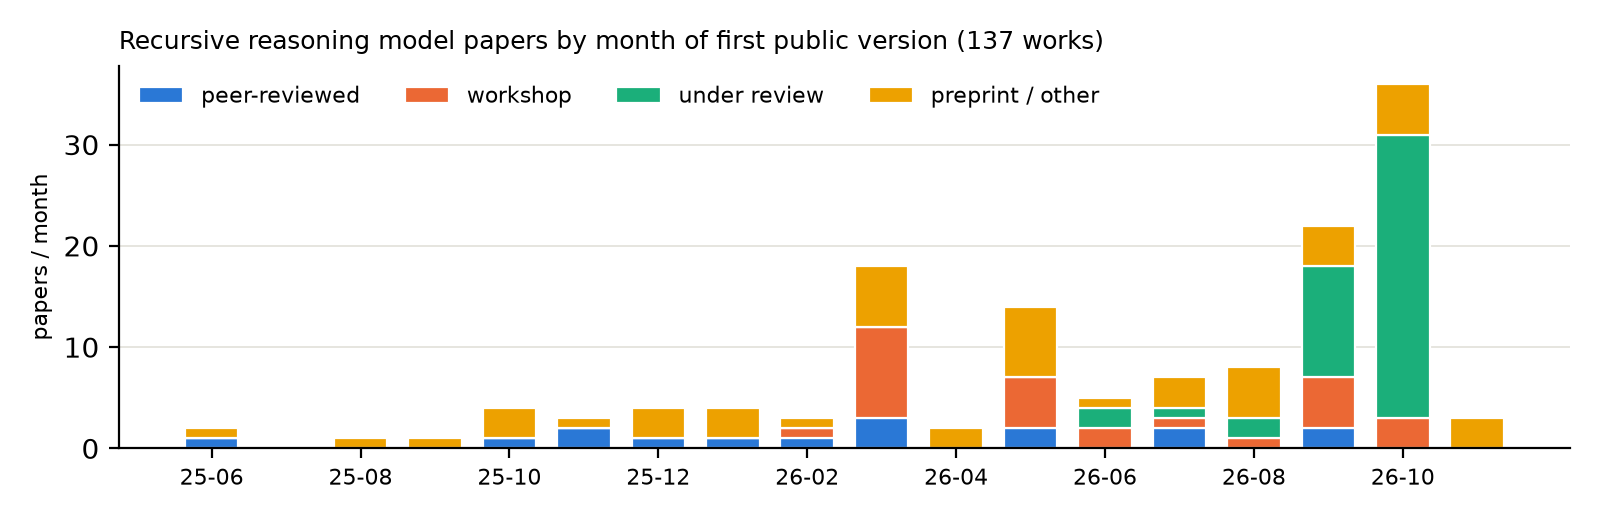
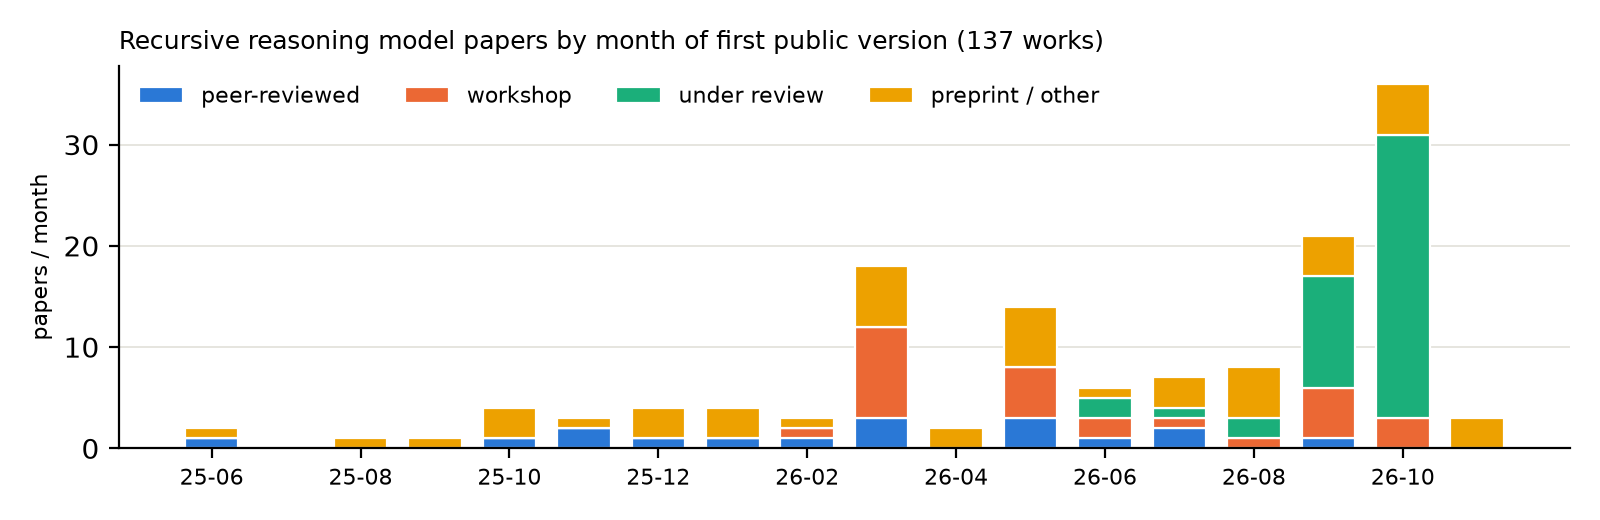
Narrow TL;DR claims to what the papers report and fix dates, venues and links
Sourced through data/corrections.yaml (AI-assisted source checks, 2026-11-16):
- TL;DRs narrowed to the sources: LDT is empirically sound only on the tested Sudoku sets (its
  Maze-Hard failures are wrong paths, p. 9); SE-RRM fully solves 4x4 grids but none of the
  16x16/25x25 ones (pp. 7-8); the edge-compression study's INT4 budget is a weights-only
  analysis; HRM-Text's comparison is the authors' (40B unique tokens); the memory-token finding
  is specific to a single-block UT (p. 14); the compact-solver scores keep the abstract's
  99.48%/99.62% and parameter counts; TRM states 7M (5M MLP variant on Sudoku-Extreme).
- Dates: USRL is June 2026 (CVF proceedings), not the later OpenReview posting; RELAGRAM's
  workshop record went public on 2026-10-04, not 2026-10-03.
- Venues: ELT is ECCV 2026 (Crossref), AIR is a NeurIPS 2026 poster (official site), and the
  harness-evolution entry now links the LLA @ COLM 2026 record its workshop status rests on, with
  the same-title ICLR 2027 submission as a version.

diff --git a/README.md b/README.md
@@ -7,7 +7,7 @@ recursive reasoning models: small, weight-tied networks that think by iterating.
 
 <img src="assets/field_timeline.png" alt="Monthly count of recursive-reasoning-model papers by type" width="92%"/>
 
-**507 papers** · 16 repositories · 95 annotated results (90 in RRM scope) · 111 peer-reviewed · 60 workshop · 139 under review · 193 preprint · 1 report · 3 blog · updated 2026-11-16
+**507 papers** · 16 repositories · 95 annotated results (90 in RRM scope) · 112 peer-reviewed · 60 workshop · 139 under review · 192 preprint · 1 report · 3 blog · updated 2026-11-16
 
 </div>
 
@@ -56,12 +56,12 @@ recursive reasoning models: small, weight-tied networks that think by iterating.
 1. **HRM** — Hierarchical Reasoning Model (2025-06). Introduces HRM: coupled slow high-level and fast low-level recurrent modules reasoning in one forward pass without CoT, 27M parameters, about 1000 training examples. [arXiv](https://arxiv.org/abs/2506.21734) · [OpenReview](https://openreview.net/forum?id=HFbtdgk5Hc) · [code](https://github.com/sapientinc/HRM)
 2. **ARC Prize HRM analysis** — The Hidden Drivers of HRM's Performance on ARC-AGI (2025-08). Verification and ablation of HRM on ARC-AGI: semi-private score below the public one, a plain transformer within a few points, gains concentrated in the outer refinement loop, and a transductive puzzle-ID setup. [paper](https://arcprize.org/blog/hrm-analysis) · [code](https://github.com/arcprize/hierarchical-reasoning-model-analysis)
 3. **Hierarchical Reasoning Models: Perspectives and Misconceptions** (2025-09). Reviews HRM-class models, examines key design choices, tests alternative variants and clarifies misconceptions; v2 removed erroneous v1 results and changed conclusions. [arXiv](https://arxiv.org/abs/2510.00355) · [OpenReview](https://openreview.net/forum?id=Dty1TyXrDI) · [ICLR 2026 submission, earlier title (withdrawn)](https://openreview.net/forum?id=cL840F9yoG)
-4. **TRM** — Less is More: Recursive Reasoning with Tiny Networks (2025-10). Proposes Tiny Recursive Model, a simpler recursive reasoning approach using a single 2-layer, 7M-parameter network that generalizes better than HRM on Sudoku, Maze, and ARC-AGI. [arXiv](https://arxiv.org/abs/2510.04871)
+4. **TRM** — Less is More: Recursive Reasoning with Tiny Networks (2025-10). Proposes the Tiny Recursive Model: a single 2-layer network (7M parameters; 5M MLP variant on Sudoku-Extreme) recursively updates a latent and an answer, generalizing better than HRM on Sudoku, Maze, and ARC-AGI. [arXiv](https://arxiv.org/abs/2510.04871)
 5. **Tiny Recursive Models on ARC-AGI-1: Inductive Biases, Identity Conditioning, and Test-Time Compute** (2025-12). Audits the ARC Prize TRM checkpoint on ARC-AGI-1: voting/augmentation drive much accuracy, puzzle-ID dependence is total, effective recursion is shallow; compares with QLoRA Llama-3-8B. [arXiv](https://arxiv.org/abs/2512.11847) · [code](https://github.com/AntonioRoye/TinyRecursiveModels)
 6. **URM** — Universal Reasoning Model (2025-12). Analyzes Universal Transformer variants, attributing ARC-AGI gains to recurrent inductive bias and nonlinearity, and proposes URM with short convolution and truncated backpropagation. [arXiv](https://arxiv.org/abs/2512.14693) · [OpenReview](https://openreview.net/forum?id=cUUG3aZR5g) · [code](https://github.com/UbiquantAI/URM)
 7. **Augmented HRM** — Are Your Reasoning Models Reasoning or Guessing? A Mechanistic Analysis of Hierarchical Reasoning Models (2026-01). Mechanistic HRM study: fails trivial puzzles via fixed-point violation, shows grokking-like steps and multiple fixed points; Augmented HRM scales guesses via augmentation, perturbation, bootstrapping. [arXiv](https://arxiv.org/abs/2601.10679) · [code](https://github.com/renrua52/hrm-mechanistic-analysis)
 8. **GRAM** — Generative Recursive Reasoning (2026-03). GRAM turns recursive latent reasoning into stochastic multi-trajectory computation, a latent-variable model trained by amortized variational inference supporting parallel sampling and unconditional generation. [arXiv](https://arxiv.org/abs/2605.19376) · [ICLR 2026 Workshop (RSI) version](https://openreview.net/forum?id=Vxu6kcIjwV)
-9. **LDT** — Lattice Deduction Transformers (2026-05). Lattice Deduction Transformer: recurrent transformer projecting its latent state through a lattice between passes, trained on-policy with abstract-interpretation supervision; answers correctly or abstains. [arXiv](https://arxiv.org/abs/2605.08605) · [OpenReview](https://openreview.net/forum?id=AGwDx82Vq3)
+9. **LDT** — Lattice Deduction Transformers (2026-05). Lattice Deduction Transformer: recurrent transformer projecting its latent state through a lattice between passes, trained on-policy with abstract-interpretation supervision; empirically sound (correct answer or abstention) on the tested Sudoku sets, while its few Maze-Hard failures are wrong paths, not abstentions. [arXiv](https://arxiv.org/abs/2605.08605) · [OpenReview](https://openreview.net/forum?id=AGwDx82Vq3)
 10. **PTRM** — Probabilistic Tiny Recursive Model (2026-05). Introduces Probabilistic TRM, injecting Gaussian noise at each deep recursion step to explore parallel trajectories and selecting via TRM's existing Q head, without retraining or augmentation. [arXiv](https://arxiv.org/abs/2605.19943)
 11. **EqR** — Equilibrium Reasoners: Learning Attractors Enables Scalable Reasoning (2026-05). Equilibrium Reasoners learn task-conditioned attractors whose stable fixed points are solutions, scaling test-time compute by depth (more iterations) and breadth (aggregating stochastic trajectories) without verifiers. [arXiv](https://arxiv.org/abs/2605.21488) · [OpenReview](https://openreview.net/forum?id=lh95PnOlpM) · [code](https://github.com/locuslab/EqR)
 12. **FPRM** — Fixed-Point Reasoners: Stable and Adaptive Deep Looped Transformers (2026-05). FPRM, a Transformer-based Fixed-Point Reasoning Model, fixes looped-depth signal propagation with pre-norm and residual scaling and uses fixed-point convergence as end-to-end halting. [arXiv](https://arxiv.org/abs/2606.18206) · [OpenReview](https://openreview.net/forum?id=8HeM93bcCq) · [ICML 2026 Workshop (FoGen) version](https://openreview.net/forum?id=EpkmPWS4Tm)
@@ -72,9 +72,9 @@ recursive reasoning models: small, weight-tied networks that think by iterating.
 | Date | Paper | Venue / status | Links | TL;DR |
 |:--|:--|:--|:--|:--|
 | 2026-08 | **Mimir** — Mimir: A Sub-2B Hierarchical Reasoning Model Trained on Permissible Data Punches Above Its Weight Class | ICLR 2027 (under review) | [arXiv](https://arxiv.org/abs/2608.13517) · [OpenReview](https://openreview.net/forum?id=YGnpHMuhJI) · [code](https://github.com/schneiderkamplab/HRM-Text) | Releases Mimir v1, a 1B-parameter HRM-architecture language model trained from scratch on permissible data, outperforming HRM-Text 1B and setting a Danish state of the art. |
-| 2026-05 | **HRM-Text** — HRM-Text: Efficient Pretraining Beyond Scaling | arXiv | [arXiv](https://arxiv.org/abs/2605.20613) · [code](https://github.com/sapientinc/HRM-Text) | HRM-Text replaces Transformers with HRM for language-model pretraining, adding MagicNorm and warmup deep credit assignment and training on instruction-response pairs; 1B model rivals 2-7B models. |
+| 2026-05 | **HRM-Text** — HRM-Text: Efficient Pretraining Beyond Scaling | arXiv | [arXiv](https://arxiv.org/abs/2605.20613) · [code](https://github.com/sapientinc/HRM-Text) | HRM-Text replaces Transformers with HRM for language-model pretraining, adding MagicNorm and warmup deep credit assignment and training only on instruction-response pairs; reports that a 1B model trained from scratch on 40B unique tokens performs competitively with 2-7B open models. |
 | 2025-12 | **URM** — Universal Reasoning Model ⭐ | arXiv | [arXiv](https://arxiv.org/abs/2512.14693) · [OpenReview](https://openreview.net/forum?id=cUUG3aZR5g) · [code](https://github.com/UbiquantAI/URM) | Analyzes Universal Transformer variants, attributing ARC-AGI gains to recurrent inductive bias and nonlinearity, and proposes URM with short convolution and truncated backpropagation. |
-| 2025-10 | **TRM** — Less is More: Recursive Reasoning with Tiny Networks ⭐ | arXiv | [arXiv](https://arxiv.org/abs/2510.04871) | Proposes Tiny Recursive Model, a simpler recursive reasoning approach using a single 2-layer, 7M-parameter network that generalizes better than HRM on Sudoku, Maze, and ARC-AGI. |
+| 2025-10 | **TRM** — Less is More: Recursive Reasoning with Tiny Networks ⭐ | arXiv | [arXiv](https://arxiv.org/abs/2510.04871) | Proposes the Tiny Recursive Model: a single 2-layer network (7M parameters; 5M MLP variant on Sudoku-Extreme) recursively updates a latent and an answer, generalizing better than HRM on Sudoku, Maze, and ARC-AGI. |
 | 2025-06 | **HRM** — Hierarchical Reasoning Model ⭐ | arXiv | [arXiv](https://arxiv.org/abs/2506.21734) · [OpenReview](https://openreview.net/forum?id=HFbtdgk5Hc) · [code](https://github.com/sapientinc/HRM) | Introduces HRM: coupled slow high-level and fast low-level recurrent modules reasoning in one forward pass without CoT, 27M parameters, about 1000 training examples. |
 
 ## 🏗 Operator and state design
@@ -92,7 +92,7 @@ recursive reasoning models: small, weight-tied networks that think by iterating.
 | 2026-10 | **NRR** — Negotiated Recursive Reasoning | ICLR 2027 (under review) | [OpenReview](https://openreview.net/forum?id=ICrQrzUlub) | Proposes Negotiated Recursive Reasoning, where shared local recursive reasoners refine per-view proposals and states while a negotiation step reduces overlap disagreement across rounds. |
 | 2026-10 | **QRR** — Looped Reasoning Finishes Earlier Than You Think | ICLR 2027 (under review) | [arXiv](https://arxiv.org/abs/2610.18174) · [OpenReview](https://openreview.net/forum?id=F2Gf9kssdG) | Shows slowly decaying oscillatory latent modes bottleneck convergence in looped reasoning, and proposes QRR, a gauge-equivariant recurrent reasoner whose phase-rotation symmetry decouples them, converging faster. |
 | 2026-10 | **G-Loop** — Loop Attention, not the Block | ICLR 2027 (under review) | [OpenReview](https://openreview.net/forum?id=Laa8I1vVBg) | Introduces Gated Looped Attention, moving recurrence inside self-attention with gated value remixing, approaching or beating TRM-Att puzzle accuracy at far lower FLOPs and improving DeBERTa on GLUE. |
-| 2026-10 | Learned Correction Dynamics in Recursive Reasoning Models | ICLR 2027 (under review) | [OpenReview](https://openreview.net/forum?id=KGYYrHn7TX) | Trajectory measurements and interventions on Sudoku-Extreme RRMs reveal learned correction dynamics; compact attention solvers reach about 99.5% with under 2M parameters; ARC candidate-pool limits. |
+| 2026-10 | Learned Correction Dynamics in Recursive Reasoning Models | ICLR 2027 (under review) | [OpenReview](https://openreview.net/forum?id=KGYYrHn7TX) | Trajectory measurements and interventions on Sudoku-Extreme RRMs reveal learned correction dynamics; compact attention solvers reach 99.48% (0.62M parameters) and 99.62% (1.06M and 1.97M) with one 64-iteration trajectory; on ARC, tested candidate pools lack correct answers for most queries. |
 | 2026-10 | **LRFeed** — LRFeed: Latent Residual Feedback for Efficient Reasoning in Looped Transformers | ICLR 2027 (under review) | [OpenReview](https://openreview.net/forum?id=niEvgSmsch) | LRFeed feeds back latent-state evolution to guide subsequent computation in a single-state TRM variant, strengthening long-horizon reasoning beyond the training horizon with less compute. |
 | 2026-10 | **L^nH** — Beyond the Loop: From Latent Dynamics to Performant Recurrent Models | ICLR 2027 (under review) | [OpenReview](https://openreview.net/forum?id=d6MpL4YyvG) | Analyzes HRM-Text dynamics (L-module converges to a narrow region; H applies a distinct map), proposing the simpler one-stream L^nH family and a new training recipe. |
 | 2026-09 | **BiRRM** — BiRRM: Bidirectional Token Mixing for Recurrent Reasoning Models | NeurIPS 2026 Workshop (AXIOM) | [OpenReview](https://openreview.net/forum?id=q4FCmBLlE0) | Shows causal linear-time mixers (mLSTM, GDN-2, Mamba-3) fail as RRM token mixers and proposes BiRRM, a weight-tied bidirectional construction restoring strong performance. |
@@ -100,17 +100,17 @@ recursive reasoning models: small, weight-tied networks that think by iterating.
 | 2026-09 | **NCA** — Reasoning with Neural Cellular Automata | ICLR 2027 (under review) | [arXiv](https://arxiv.org/abs/2609.36126) · [OpenReview](https://openreview.net/forum?id=WW3DRigdv3) | Shows neural cellular automata with local, asynchronous recurrent updates solve large mazes, Sudoku, and ARC-AGI-1, generalizing to larger grids and longer rollouts when trained with replay and stochasticity. |
 | 2026-09 | **CHARM** — Structured Sparse Memory for Recurrent Reasoning | arXiv | [arXiv](https://arxiv.org/abs/2609.33270) · [code](https://github.com/water-vapor/charm) | Presents CHARM, a compact hybrid ARC model combining recurrent reasoning with compositional sparse task memory (CoSE), synthetic augmentation data and inference-time aggregation. |
 | 2026-09 | **GFPR** — Reasoning on the Simplex: Geometric Fixed-Point Models | ICLR 2027 (under review) | [arXiv](https://arxiv.org/abs/2609.33540) · [OpenReview](https://openreview.net/forum?id=4lOEWc9Rp0) | GFPR iterates categorical beliefs on a product of simplices so the state is the prediction, guaranteeing a fixed point; a ~7M model is strong on Sudoku-Extreme, Maze-Hard, S5. |
-| 2026-09 | **USRL** — Human-like Abstract Visual Reasoning via Understanding and Solving Reasoning Loop | CVPR 2026 | [OpenReview](https://openreview.net/forum?id=FScvogJslA) | Proposes USRL, a 7M-parameter loop in which an Understanding Module refines rule representations and a Solving Module refines a draft solution, with consistency-based adaptive halting. |
 | 2026-09 | **LRT** — Latent Recurrent Thoughts: Recurrent Refinement of Proposed Latents for Reasoning with Frozen LLMs | arXiv | [arXiv](https://arxiv.org/abs/2609.01117) · [code](https://github.com/czl-david/latent-recurrent-thoughts) | Proposes Latent Recurrent Thoughts: a tiny recurrent reasoner refines proposed continuous latents through bounded residual corrections, which a frozen LLM decodes into answers. |
 | 2026-08 | **BDH-CQ** — BDH-CQ: In-Context Learning with Recurrent Latent Reasoning | arXiv | [arXiv](https://arxiv.org/abs/2608.09888) | BDH-CQ combines in-context learning, where demonstrations update recurrent memory, with iterative latent reasoning, analysed through controlled ARC-like interventions. |
 | 2026-08 | **ReWork** — ReWork: Efficient Iterative Reasoning with Working Memory | COLM 2026 Workshop (Efficient Reasoning) | [OpenReview](https://openreview.net/forum?id=cNK4KZzHH2) | Proposes ReWork, splitting recurrent state into persistent token-aligned sensory memory and refreshed compact working memory, nesting latent recursion within discrete diffusion, with learned halting. |
 | 2026-06 | **Loop-OWM** — Slots, Transitions, Loops: Learning Composable World Models for ARC | UniWorld Workshop @ ECCV2026 | [arXiv](https://arxiv.org/abs/2606.12316) · [OpenReview](https://openreview.net/forum?id=vxkm7Oolhp) · [X-Reason workshop version (oral)](https://openreview.net/forum?id=I3qCWNKJWV) | Loop-OWM learns ARC rules as composable transitions over object-centric slot states, combining color-prototype slots, demonstration-conditioned summaries and a looped transition model, outperforming non-looped and looped baselines on ARC-1 and ARC-2. |
+| 2026-06 | **USRL** — Human-like Abstract Visual Reasoning via Understanding and Solving Reasoning Loop | CVPR 2026 | [paper](https://openaccess.thecvf.com/content/CVPR2026/html/Chen_Human-like_Abstract_Visual_Reasoning_via_Understanding_and_Solving_Reasoning_Loop_CVPR_2026_paper.html) · [OpenReview](https://openreview.net/forum?id=FScvogJslA) | Proposes USRL, a 7M-parameter loop in which an Understanding Module refines rule representations and a Solving Module refines a draft solution, with consistency-based adaptive halting. |
 | 2026-05 | When to Re-Plan: Subgoal Persistence in Hierarchical Latent Reasoning | ICML 2026 Workshop (CompLearn) | [arXiv](https://arxiv.org/abs/2606.03741) · [OpenReview](https://openreview.net/forum?id=7n485sq1xH) | Extends HRM with a feudal manager-worker interface whose high-level module emits persistent subgoals; on ARC and ConceptARC moderate persistence periods (P in 3-6) work best. |
 | 2026-05 | **Attractor Models** — Solve the Loop: Attractor Models for Language and Reasoning | COLM 2026 Workshop (Efficient Reasoning) | [arXiv](https://arxiv.org/abs/2605.12466) · [OpenReview](https://openreview.net/forum?id=wtWZNZUxQO) · [code](https://github.com/jacobfa/Attractor) | Introduces Attractor Models, where an attractor module refines backbone output embeddings by solving for a fixed point with implicit gradients, applied to LM pretraining and tiny-model reasoning. |
-| 2026-05 | **LDT** — Lattice Deduction Transformers ⭐ | arXiv | [arXiv](https://arxiv.org/abs/2605.08605) · [OpenReview](https://openreview.net/forum?id=AGwDx82Vq3) | Lattice Deduction Transformer: recurrent transformer projecting its latent state through a lattice between passes, trained on-policy with abstract-interpretation supervision; answers correctly or abstains. |
+| 2026-05 | **LDT** — Lattice Deduction Transformers ⭐ | arXiv | [arXiv](https://arxiv.org/abs/2605.08605) · [OpenReview](https://openreview.net/forum?id=AGwDx82Vq3) | Lattice Deduction Transformer: recurrent transformer projecting its latent state through a lattice between passes, trained on-policy with abstract-interpretation supervision; empirically sound (correct answer or abstention) on the tested Sudoku sets, while its few Maze-Hard failures are wrong paths, not abstentions. |
 | 2026-03 | **TR-LDM** — Tiny Recursive Language Diffusion Models | ACL ARR 2026 January submission | [OpenReview](https://openreview.net/forum?id=3Eutnnd6Hy) | Proposes TR-LDM, a <=20M-parameter masked diffusion LM with TRM-style latent/answer recursion and optional deep supervision over denoising, with theory and a Sudoku-Extreme/Maze-Hard experimental plan. |
 | 2026-03 | **RIM** — Recursive Inference Machines for Neural Reasoning | arXiv | [arXiv](https://arxiv.org/abs/2603.05234) | Recursive Inference Machines frame neural reasoners with classical inference-engine mechanisms, express TRM as an instance, and add a reweighting component improving ARC-AGI and Sudoku-Extreme, plus tabular classification. |
-| 2026-03 | **SE-RRM** — Symbol-Equivariant Recurrent Reasoning Models | ICML 2026 | [arXiv](https://arxiv.org/abs/2603.02193) · [OpenReview](https://openreview.net/forum?id=Rd1oQZ3s2o) · [code](https://github.com/ml-jku/SE-RRM) | Introduces symbol-equivariant recurrent reasoning models enforcing permutation equivariance architecturally, beating prior RRMs on Sudoku with size extrapolation and needing less augmentation on ARC. |
+| 2026-03 | **SE-RRM** — Symbol-Equivariant Recurrent Reasoning Models | ICML 2026 | [arXiv](https://arxiv.org/abs/2603.02193) · [OpenReview](https://openreview.net/forum?id=Rd1oQZ3s2o) · [code](https://github.com/ml-jku/SE-RRM) | Symbol-equivariant recurrent reasoning models enforce permutation equivariance architecturally: they outperform prior RRMs on 9x9 Sudoku, transfer to 4x4 grids (95.46% fully solved) but fully solve none of the larger 16x16/25x25 grids, and need less augmentation on ARC. |
 | 2026-02 | Tiny Recursive Reasoning with Mamba-2 Attention Hybrid | ICLR 2026 Workshop (LIT) | [arXiv](https://arxiv.org/abs/2602.12078) · [OpenReview](https://openreview.net/forum?id=AEz0zbLuzg) | Replaces TRM's Transformer blocks with Mamba-2 attention hybrids at parameter parity, improving ARC-AGI-1 pass@2 and higher-K candidate coverage with pass@1 parity. |
 | 2025-06 | Neural Cellular Automata for ARC-AGI | ALIFE 2025 | [arXiv](https://arxiv.org/abs/2506.15746) · [ALIFE 2025 paper](https://doi.org/10.1162/isal.a.844) | Gradient-trained neural cellular automata learn an iterative local update rule from each ARC-AGI task's demonstrations and apply it to the test input; examines design modifications and training constraints. |
 
@@ -170,7 +170,7 @@ recursive reasoning models: small, weight-tied networks that think by iterating.
 | 2026-09 | **Looped Actor** — Looped Actor: Depth-Recurrent Reasoning Models for Reinforcement Learning | ICLR 2027 (under review) | [arXiv](https://arxiv.org/abs/2609.37432) · [OpenReview](https://openreview.net/forum?id=LP8lY2E8bR) · [code](https://github.com/camail-official/LoopedActor) | Introduces Looped Actor, a transformer policy refining a latent toward a fixed point with a shared block and state-dependent loop counts, with complexity-theoretic motivation for adaptive compute. |
 | 2026-05 | **FPRM** — Fixed-Point Reasoners: Stable and Adaptive Deep Looped Transformers ⭐ | ICML 2026 Workshop (CompLearn) | [arXiv](https://arxiv.org/abs/2606.18206) · [OpenReview](https://openreview.net/forum?id=8HeM93bcCq) · [ICML 2026 Workshop (FoGen) version](https://openreview.net/forum?id=EpkmPWS4Tm) | FPRM, a Transformer-based Fixed-Point Reasoning Model, fixes looped-depth signal propagation with pre-norm and residual scaling and uses fixed-point convergence as end-to-end halting. |
 | 2026-05 | **EqR** — Equilibrium Reasoners: Learning Attractors Enables Scalable Reasoning ⭐ | ICML 2026 | [arXiv](https://arxiv.org/abs/2605.21488) · [OpenReview](https://openreview.net/forum?id=lh95PnOlpM) · [code](https://github.com/locuslab/EqR) | Equilibrium Reasoners learn task-conditioned attractors whose stable fixed points are solutions, scaling test-time compute by depth (more iterations) and breadth (aggregating stochastic trajectories) without verifiers. |
-| 2026-04 | Universal Transformers Need Memory: Depth-State Trade-offs in Adaptive Recursive Reasoning | arXiv | [arXiv](https://arxiv.org/abs/2604.21999) · [code](https://github.com/che-shr-cat/utm-jax) | Single-block Universal Transformer with ACT on Sudoku-Extreme: memory tokens are necessary and substitute for ponder depth; identifies an ACT router-initialization trap fixed by negative bias. |
+| 2026-04 | Universal Transformers Need Memory: Depth-State Trade-offs in Adaptive Recursive Reasoning | arXiv | [arXiv](https://arxiv.org/abs/2604.21999) · [code](https://github.com/che-shr-cat/utm-jax) | Single-block Universal Transformer with ACT on Sudoku-Extreme: in this minimal setting memory tokens are empirically necessary and trade off against ponder depth (the author notes that TRM and URM compensate differently); identifies an ACT router-initialization trap fixed by a negative halting bias. |
 | 2026-03 | **CMM** — Dynamical Systems Theory Behind a Hierarchical Reasoning Model | arXiv | [arXiv](https://arxiv.org/abs/2603.22871) | Contraction Mapping Model recasts HRM/TRM-style recursion as neural ODEs/SDEs enforcing convergence to stable equilibria with hyperspherical repulsion against collapse; compact models top Sudoku-Extreme. |
 | 2026-03 | Unrolled Policy Iteration for Tiny Recursive Models | ICLR 2026 Workshop (RSI) | [OpenReview](https://openreview.net/forum?id=rIzREKws05) | Formalizes TRM plan editing as an MDP and analyzes approximate policy iteration with truncated internal evaluation, bounding error by contraction modulus and unroll depth; Sudoku experiments. |
 | 2026-02 | **Loop-ViT** — LoopViT: Scaling Visual ARC with Looped Transformers | arXiv | [arXiv](https://arxiv.org/abs/2602.02156) · [code](https://github.com/WenjieShu/LoopViT) | Loop-ViT iterates a weight-tied convolution-attention hybrid block for visual ARC with a parameter-free entropy-based Dynamic Exit; the 18M model reaches 65.8% on ARC-AGI-1. |
@@ -190,11 +190,11 @@ recursive reasoning models: small, weight-tied networks that think by iterating.
 | 2026-09 | Pretraining and Test-Time Training Budgets Matter for ARC: A Controlled Study of VARC and TRM | BNAIC/BeNeLearn 2026 | [arXiv](https://arxiv.org/abs/2610.13660) · [OpenReview](https://openreview.net/forum?id=JVmYVft0UP) · [code](https://github.com/AdrienDeliege/arc-training-budgets) | Controlled study crossing five pretraining and four test-time-training budgets for VARC and TRM on ARC-AGI-1 under a common inductive protocol. |
 | 2026-09 | Competence without Performance: Representation Without Control on ARC-AGI-3 | NeurIPS 2026 Workshop (PhysUnderstand) | [OpenReview](https://openreview.net/forum?id=aCUDp8kUVi) | Puts a 7M TRM and DreamerV3 through a shared ARC-AGI-3 substrate; both collapse, and diagnosis shows models represent games but reward discovery and control fail. |
 | 2026-09 | When Recursive Models Finish Computing | ICLR 2027 (under review) | [arXiv](https://arxiv.org/abs/2609.26487) · [OpenReview](https://openreview.net/forum?id=irVKjZ7a6I) | Studies completion dynamics of attention and MLP TRMs on 1,000 hard Sudoku: extended recurrence solves many nominal failures; completed states show trajectory-conditioned anisotropic stability. |
-| 2026-06 | What Survives When You Compress a Recursive Reasoner for the Edge? | arXiv | [arXiv](https://arxiv.org/abs/2606.26488) | Studies compressing few-million-parameter recursive reasoning models for edge on three puzzle tasks: pruning, distillation and linear attention destroy puzzle-exact accuracy; calibrated INT4 recovers it. |
+| 2026-06 | What Survives When You Compress a Recursive Reasoner for the Edge? | arXiv | [arXiv](https://arxiv.org/abs/2606.26488) | Compresses few-million-parameter recursive reasoners for edge budgets on three puzzle tasks: in the tested settings pruning, distillation and linear attention drive puzzle-exact accuracy to zero while cell accuracy holds, and per-channel calibrated INT4 reverses naive-INT4 damage (the 4 MB INT4 budget is a weights-only analysis). |
 | 2026-06 | Quantizing Recursive Reasoning Models | ICLR 2027 (under review) | [arXiv](https://arxiv.org/abs/2607.16237) · [OpenReview](https://openreview.net/forum?id=9fAgUx2f15) | Quantizing recursive reasoning models: per-tensor 4-bit error accumulates into drift that collapses Sudoku accuracy; blockwise MXInt4 scaling restores it and transfers to ARC-AGI. |
 | 2026-06 | Dissecting Hierarchical Reasoning Models: A Mechanistic Study | ICML 2026 Workshop (Mech Interp) | [arXiv](https://arxiv.org/abs/2609.22197) · [OpenReview](https://openreview.net/forum?id=x7a5aCnTzI) · [code](https://github.com/LeoRodrigues05/HRM) | Mechanistically dissects HRM on Sudoku, Maze and ARC-AGI-2 using baselines, state interventions, probes and SAEs, concluding it performs constraint-aware iterative refinement of a solution state. |
 | 2026-05 | Interaction Locality in Hierarchical Recursive Reasoning | arXiv | [arXiv](https://arxiv.org/abs/2605.20784) | Proposes interaction locality via SAE feature ablations and activation patching; HRM/TRM high-level states write locally while recursion accumulates global structure; contrasted with MTU3D. |
-| 2026-05 | **AIR** — One Model, Two Roles: Emergent Specialization in a Shared Recurrent Transformer | arXiv | [arXiv](https://arxiv.org/abs/2605.17811) · [OpenReview](https://openreview.net/forum?id=AMq8dARBTH) · [code](https://github.com/juchengshen/air) | Asymmetric Input Recurrence reuses one Transformer for HRM-style L and H updates; on Sudoku-Extreme and Maze, z_H becomes a committed proposal while z_L keeps local uncertainty. |
+| 2026-05 | **AIR** — One Model, Two Roles: Emergent Specialization in a Shared Recurrent Transformer | NeurIPS 2026 | [arXiv](https://arxiv.org/abs/2605.17811) · [OpenReview](https://openreview.net/forum?id=AMq8dARBTH) · [NeurIPS 2026 poster](https://neurips.cc/virtual/2026/poster/155435) · [code](https://github.com/juchengshen/air) | Asymmetric Input Recurrence reuses one Transformer for HRM-style L and H updates; on Sudoku-Extreme and Maze, z_H becomes a committed proposal while z_L keeps local uncertainty. |
 | 2026-03 | Depth vs Recursion: Outperforming Transformers in Jigsaw Reconstruction | ICLR 2026 Workshop (RSI) | [OpenReview](https://openreview.net/forum?id=1zDG1o16xB) | Benchmarks TRM against encoder-only Transformers on jigsaw puzzle reconstruction; TRM keeps scaling where stacked Transformers collapse and shows abrupt learning transitions. |
 | 2026-03 | **LASER** — LASER: Low-Rank Activation SVD for Efficient Recursion | ICLR 2026 Workshop (LIT) | [arXiv](https://arxiv.org/abs/2604.17224) · [OpenReview](https://openreview.net/forum?id=ApxoeCZByZ) | Finds TRM activations during recursion occupy a low-dimensional linear subspace and exploits this with LASER, dynamic low-rank activation compression via matrix-free subspace tracking. |
 | 2025-12 | Tiny Recursive Models on ARC-AGI-1: Inductive Biases, Identity Conditioning, and Test-Time Compute ⭐ | arXiv | [arXiv](https://arxiv.org/abs/2512.11847) · [code](https://github.com/AntonioRoye/TinyRecursiveModels) | Audits the ARC Prize TRM checkpoint on ARC-AGI-1: voting/augmentation drive much accuracy, puzzle-ID dependence is total, effective recursion is shallow; compares with QLoRA Llama-3-8B. |
@@ -263,8 +263,8 @@ recursive reasoning models: small, weight-tied networks that think by iterating.
 
 | Date | Paper | Venue / status | Links | TL;DR |
 |:--|:--|:--|:--|:--|
-| 2026-10 | **TRGNN** — Recursive Message Passing is Topology-Adaptive | ICLR 2027 (under review) | [OpenReview](https://openreview.net/forum?id=5X9lX8FOch) | Tiny Recursive GNNs combine recursive message passing with iterative prediction refinement, yielding topology-adaptive effective depth and anytime prediction with far fewer parameters. |
 | 2026-10 | **RELAGRAM** — RELAGRAM: Recursive Latent Graph Model for Capacitated Vehicle Routing Problem | NeurIPS 2026 Workshop (MLxOR) | [arXiv](https://arxiv.org/abs/2610.15106) · [OpenReview](https://openreview.net/forum?id=bb4DbQgvgM) | RELAGRAM brings latent recursion to CVRP: a compact transformer recurrently updates edge-token latents, outputting an edge heatmap decoded autoregressively into feasible routes. |
+| 2026-10 | **TRGNN** — Recursive Message Passing is Topology-Adaptive | ICLR 2027 (under review) | [OpenReview](https://openreview.net/forum?id=5X9lX8FOch) | Tiny Recursive GNNs combine recursive message passing with iterative prediction refinement, yielding topology-adaptive effective depth and anytime prediction with far fewer parameters. |
 | 2026-09 | Unsupervised Recursive Reasoners for Combinatorial Problems | NeurIPS 2026 Workshop (AXIOM) | [OpenReview](https://openreview.net/forum?id=nD6DCIrA7i) | Introduces a data-free recursive reasoning model with hierarchical recurrence trained by a solution-quality energy, studying compute split between resampling and recurrence on graph coloring. |
 | 2026-09 | Compute Time Scaling with Recursive Models for Combinatorial Optimization | ICLR 2027 submission (withdrawn) | [arXiv](https://arxiv.org/abs/2609.34585) · [OpenReview](https://openreview.net/forum?id=5EFbawgRGl) | Adapts Tiny Recursive Models to combinatorial optimization with a graph-aware recursive latent model, adaptive halting, parallel sampling width and self-relabeling training. |
 | 2026-08 | Behaviour Is an Incomplete Measure of Reasoning Development: Cross-surface pre-arrival accessibility and the limits of developmental inference in a recurrent-depth reasoner | arXiv | [arXiv](https://arxiv.org/abs/2608.16085) · [code](https://github.com/primecalibre-research/ltg-replication-receipts) | Studies a 30M-parameter recurrent-depth relational reasoner with dense behavioural trajectories and preregistered probes, showing behaviour, internal accessibility and training-time development are distinct observables. |
@@ -524,7 +524,7 @@ recursive reasoning models: small, weight-tied networks that think by iterating.
 | 2026-04 | How Much Is One Recurrence Worth? Iso-Depth Scaling Laws for Looped Language Models | arXiv | [arXiv](https://arxiv.org/abs/2604.21106) · [OpenReview](https://openreview.net/forum?id=OkZRWtSs6m) | Fits iso-depth scaling laws for looped LMs across recurrence counts, measuring a recurrence-equivalence exponent phi that also diagnoses truncated BPTT and hyperconnections. |
 | 2026-04 | **Parcae** — Parcae: Scaling Laws For Stable Looped Language Models | COLM 2026 | [arXiv](https://arxiv.org/abs/2604.12946) · [OpenReview](https://openreview.net/forum?id=pIBqtrqFeP) | Recasts looping as a residual-stream dynamical system, stabilizes it by constraining injection spectral norms, and derives training and test-time scaling laws for looped LMs. |
 | 2026-04 | A Mechanistic Analysis of Looped Reasoning Language Models | arXiv | [arXiv](https://arxiv.org/abs/2604.11791) | Mechanistically analyzes looped LMs, finding per-layer cyclic fixed points, stabilizing attention heads, repeated feedforward-like inference stages, and effects of block size, injection, normalization. |
-| 2026-04 | **ELT** — ELT: Elastic Looped Transformers for Visual Generation | LNCS 2026 | [arXiv](https://arxiv.org/abs/2604.09168) · [OpenReview](https://openreview.net/forum?id=7DB1Xc8e7o) | Introduces Elastic Looped Transformers for image/video generation, trained with Intra-Loop Self Distillation so intermediate loops match the max-loop teacher, enabling any-time inference. |
+| 2026-04 | **ELT** — ELT: Elastic Looped Transformers for Visual Generation | ECCV 2026 | [arXiv](https://arxiv.org/abs/2604.09168) · [OpenReview](https://openreview.net/forum?id=7DB1Xc8e7o) · [ECCV 2026 paper](https://doi.org/10.1007/978-3-032-37324-3_17) | Introduces Elastic Looped Transformers for image/video generation, trained with Intra-Loop Self Distillation so intermediate loops match the max-loop teacher, enabling any-time inference. |
 | 2026-04 | Loop, Think, & Generalize: Implicit Reasoning in Recurrent-Depth Transformers | COLM 2026 | [arXiv](https://arxiv.org/abs/2604.07822) · [OpenReview](https://openreview.net/forum?id=8fz7WRThKL) | Recurrent-depth transformers trained from scratch reach systematic generalization (via three-stage grokking) and depth extrapolation in implicit multi-hop reasoning; identifies overthinking. |
 | 2026-03 | Thinking Deeper, Not Longer: Memory-Efficient Test-Time Reasoning with Depth-Recurrent Transformers for Compositional Generalization | arXiv | [arXiv](https://arxiv.org/abs/2603.21676) · [code](https://github.com/hhchen1105/Depth-Recurrent-Transformer) | Depth-recurrent shared-block Transformer with final-output-only ('silent') supervision, LayerScale and identity-biased gating; accuracy rises once steps match task depth, and per-step supervision hurts depth extrapolation on graph reachability. |
 | 2026-03 | **LoopRPT** — LoopRPT: Reinforcement Pre-Training for Looped Language Models | arXiv | [arXiv](https://arxiv.org/abs/2603.19714) · [OpenReview](https://openreview.net/forum?id=3yk00iwx9u) | LoopRPT: reinforcement pre-training that assigns RL signals to latent loop steps using an EMA teacher and noisy latent rollouts, instantiated on Ouro. |
@@ -629,7 +629,7 @@ recursive reasoning models: small, weight-tied networks that think by iterating.
 | 2026-07 | **PRO-LONG** — PRO-LONG: Programmatic Memory Enables Long-Horizon Reasoning | NeurIPS 2026 Workshop (CL4FMAgents) | [arXiv](https://arxiv.org/abs/2607.20064) · [OpenReview](https://openreview.net/forum?id=ZgrZiVUoKa) | PRO-LONG gives LLM agents programmatic memory, a complete structured interaction log searched by coding agents, for long-horizon exploratory tasks such as ARC-AGI-3. |
 | 2026-07 | **NOOA** — NVIDIA-labs OO Agents: Native Python Object-Oriented Agents | arXiv | [arXiv](https://arxiv.org/abs/2607.20709) | Presents NOOA, a model-agnostic Python framework where agents are objects whose stub methods are completed by LLM-driven loops, supporting programmable loop engineering. |
 | 2026-07 | Do Coding Agents Need Executable World Models, Simplification, and Verification to Solve ARC-AGI-3? | arXiv | [arXiv](https://arxiv.org/abs/2607.15439) | Ablates executable world models, simplification prompts and replay verification in Codex-based ARC-AGI-3 agents across GPT-5.x models and reasoning efforts on 25 public games. |
-| 2026-07 | Rethinking the Evaluation of Harness Evolution for Agents | COLM 2026 Workshop (LLA) | [arXiv](https://arxiv.org/abs/2607.12227) · [OpenReview](https://openreview.net/forum?id=QDdWiaNkk2) | Re-evaluates automatic harness evolution for LLM agents against matched-budget test-time scaling baselines and held-out tasks, finding gains mainly in long-horizon games. |
+| 2026-07 | Rethinking the Evaluation of Harness Evolution for Agents | COLM 2026 Workshop (LLA) | [arXiv](https://arxiv.org/abs/2607.12227) · [OpenReview](https://openreview.net/forum?id=WVAeeSlVim) · [ICLR 2027 submission](https://openreview.net/forum?id=QDdWiaNkk2) | Re-evaluates automatic harness evolution for LLM agents against matched-budget test-time scaling baselines and held-out tasks, finding gains mainly in long-horizon games. |
 | 2026-07 | **Hourglass** — Think Through a Bottleneck: Hourglass Reasoning for Rigorous Induction | arXiv | [arXiv](https://arxiv.org/abs/2607.11696) | Hourglass reasoning enforces context isolation between frozen-LLM induction, deduction, implementation and error-driven refinement stages, passing only a compressed symbolic schema and rule. |
 | 2026-07 | **ARCANA** — ARCANA: A Reflective Multi-Agent Program Synthesis Framework for ARC-AGI-2 Reasoning | ISAEECE 2026 | [arXiv](https://arxiv.org/abs/2607.09059) | Presents ARCANA, a multi-agent ARC-AGI-2 framework of perception, DSL program proposal, symbolic verification, and reflective refinement agents coordinated by a learned meta-controller over a differentiable blackboard. |
 | 2026-07 | Harness Engineering for Self-Improvement | Lil'Log | [paper](https://lilianweng.github.io/posts/2026-07-04-harness/) | Survey-style essay on agent harnesses as optimizable orchestration layers; boundary material for the loop stack. |
